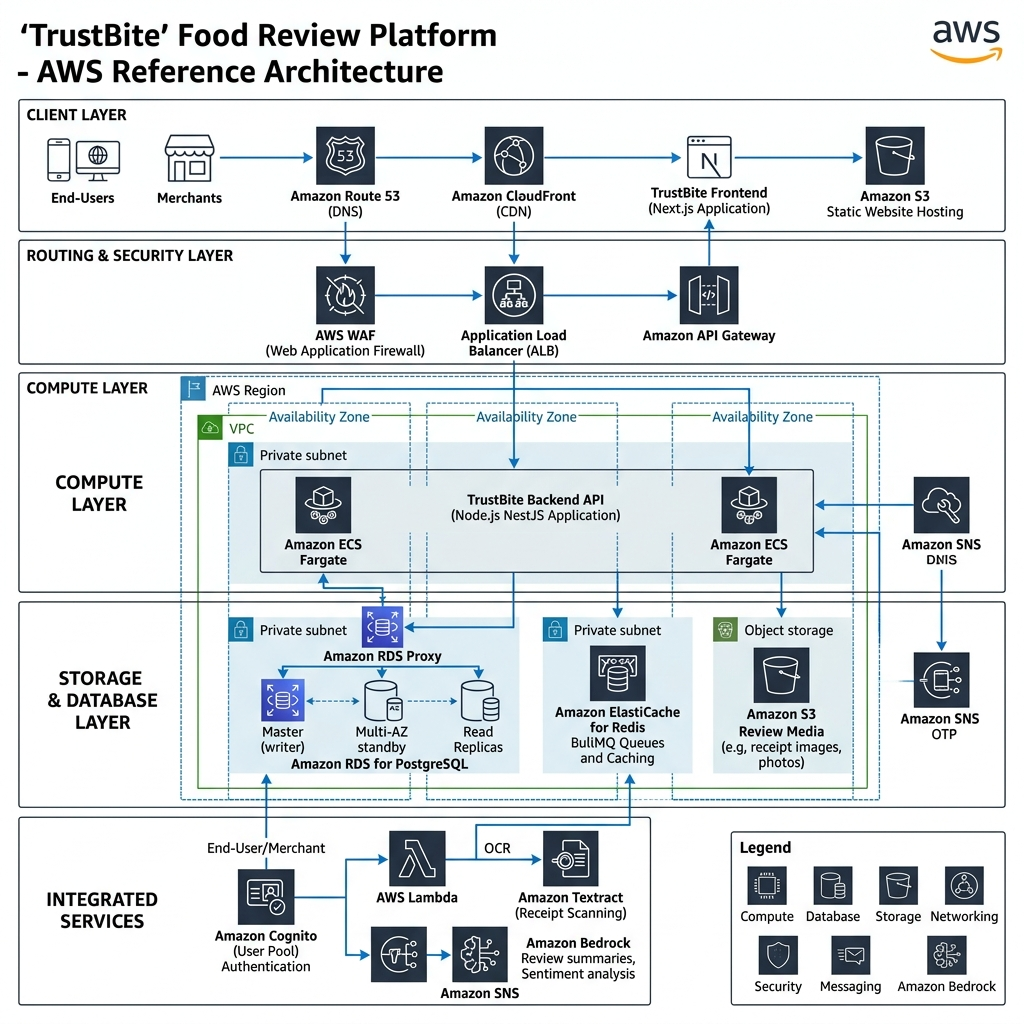
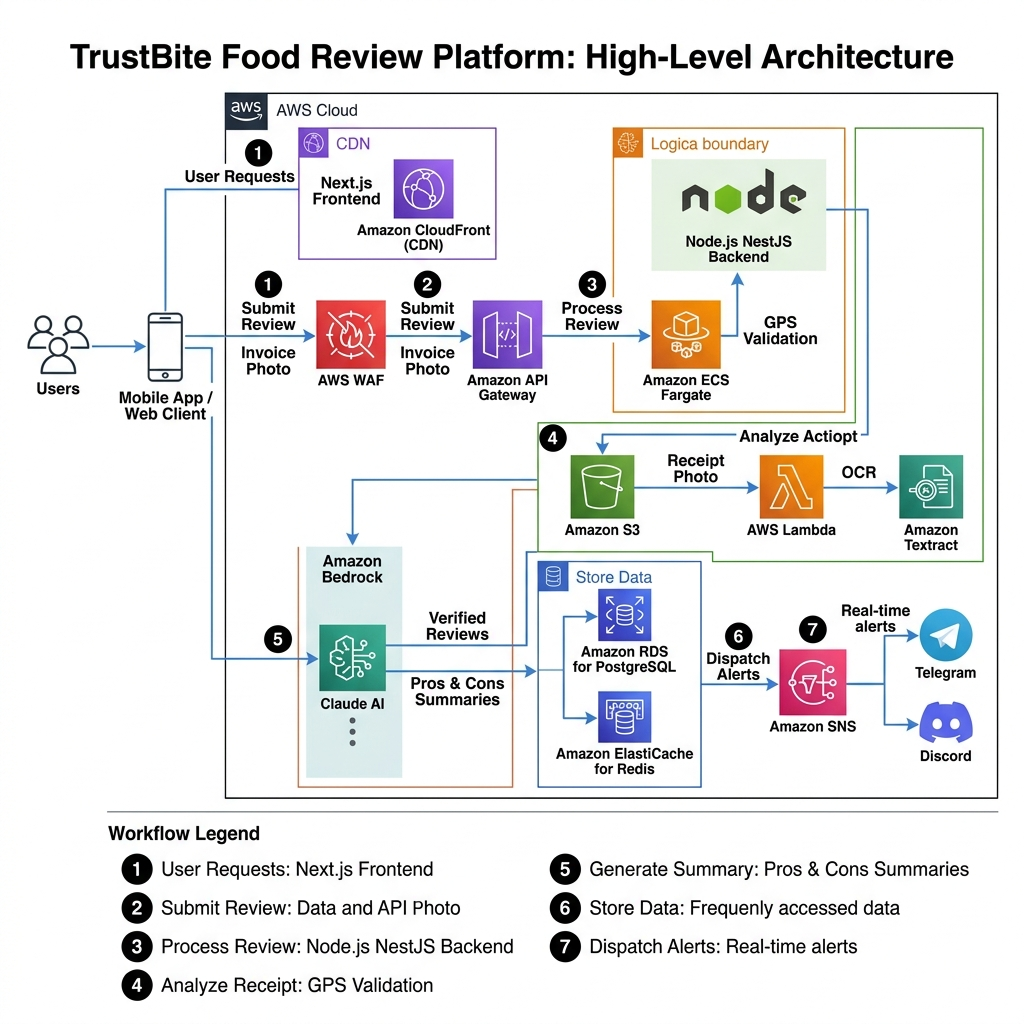
docs: add numbered step-by-step workflow description and update architecture diagram

diff --git a/02_Software_Engineering/AWS_Cloud_Infrastructure.md b/02_Software_Engineering/AWS_Cloud_Infrastructure.md
@@ -16,6 +16,15 @@
 
 ![TrustBite AWS Architecture Diagram](../assets/trustbite_architecture.png)
 
+### Quy trình xử lý luồng dữ liệu (Step-by-Step Data Flow):
+1. **Yêu cầu giao diện (Client & Delivery):** Khách ăn hoặc chủ quán truy cập Next.js Frontend thông qua Amazon Route 53 và CloudFront CDN.
+2. **Gửi dữ liệu đánh giá & hóa đơn:** Thiết bị khách hàng gửi dữ liệu review kèm ảnh chụp hóa đơn đi qua màng lọc bảo mật AWS WAF và API Gateway.
+3. **Định vị & Kiểm tra tọa độ (Compute):** API Gateway chuyển request đến Backend Node.js (NestJS) chạy trên Amazon ECS Fargate để tính khoảng cách Haversine đối chiếu GPS.
+4. **Lưu trữ & Kích hoạt OCR:** Ảnh hóa đơn được lưu vào S3 Receipts Bucket và gửi yêu cầu quét trích xuất thông tin chữ viết tự động đến Amazon Textract.
+5. **Tổng hợp đánh giá AI:** Sau khi hóa đơn được xác thực hợp lệ, backend gửi toàn bộ review verified của quán đến Amazon Bedrock (Claude 3.5 Sonnet) để sinh tóm tắt Pros/Cons.
+6. **Lưu trữ dữ liệu & Cập nhật điểm:** Review đã xác minh được lưu vào database chính Amazon RDS PostgreSQL (thông qua RDS Proxy để kiểm soát kết nối) và cập nhật cache Redis. Hệ thống tự động tính lại điểm Trust Score của quán.
+7. **Thông báo đa kênh (Alerting):** Amazon SNS tiếp nhận sự kiện và gửi tin nhắn OTP xác thực hoặc bắn thông báo đẩy (Push Notifications) về chatroom Telegram/Discord/Slack.
+
 Hệ thống áp dụng kiến trúc **Serverless & Containerization** kết hợp:
 
 ```mermaid
